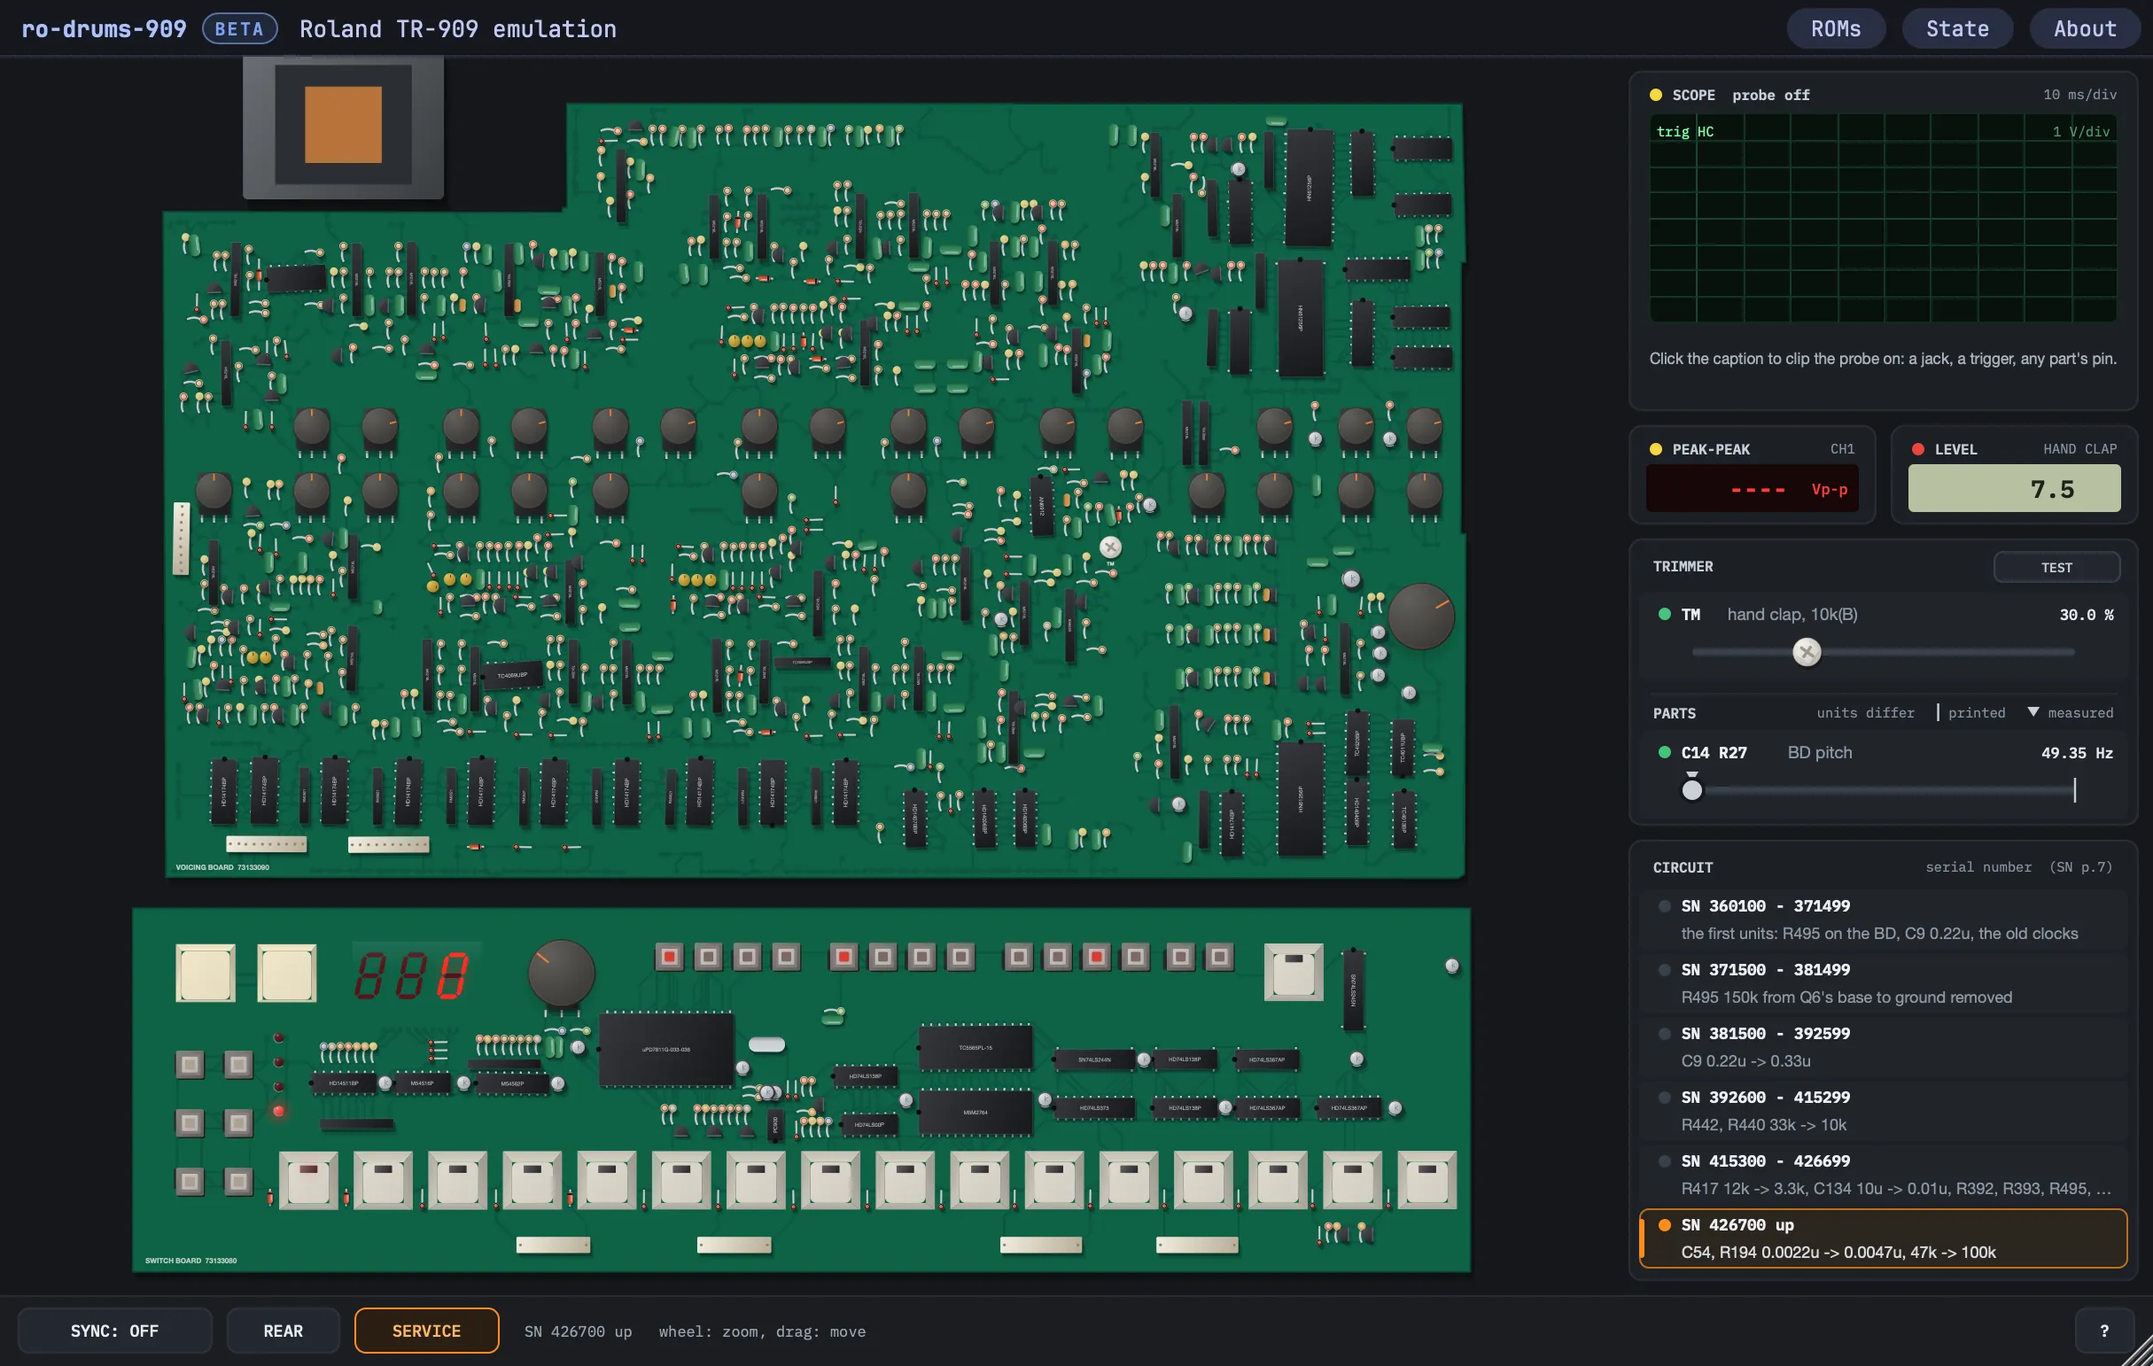
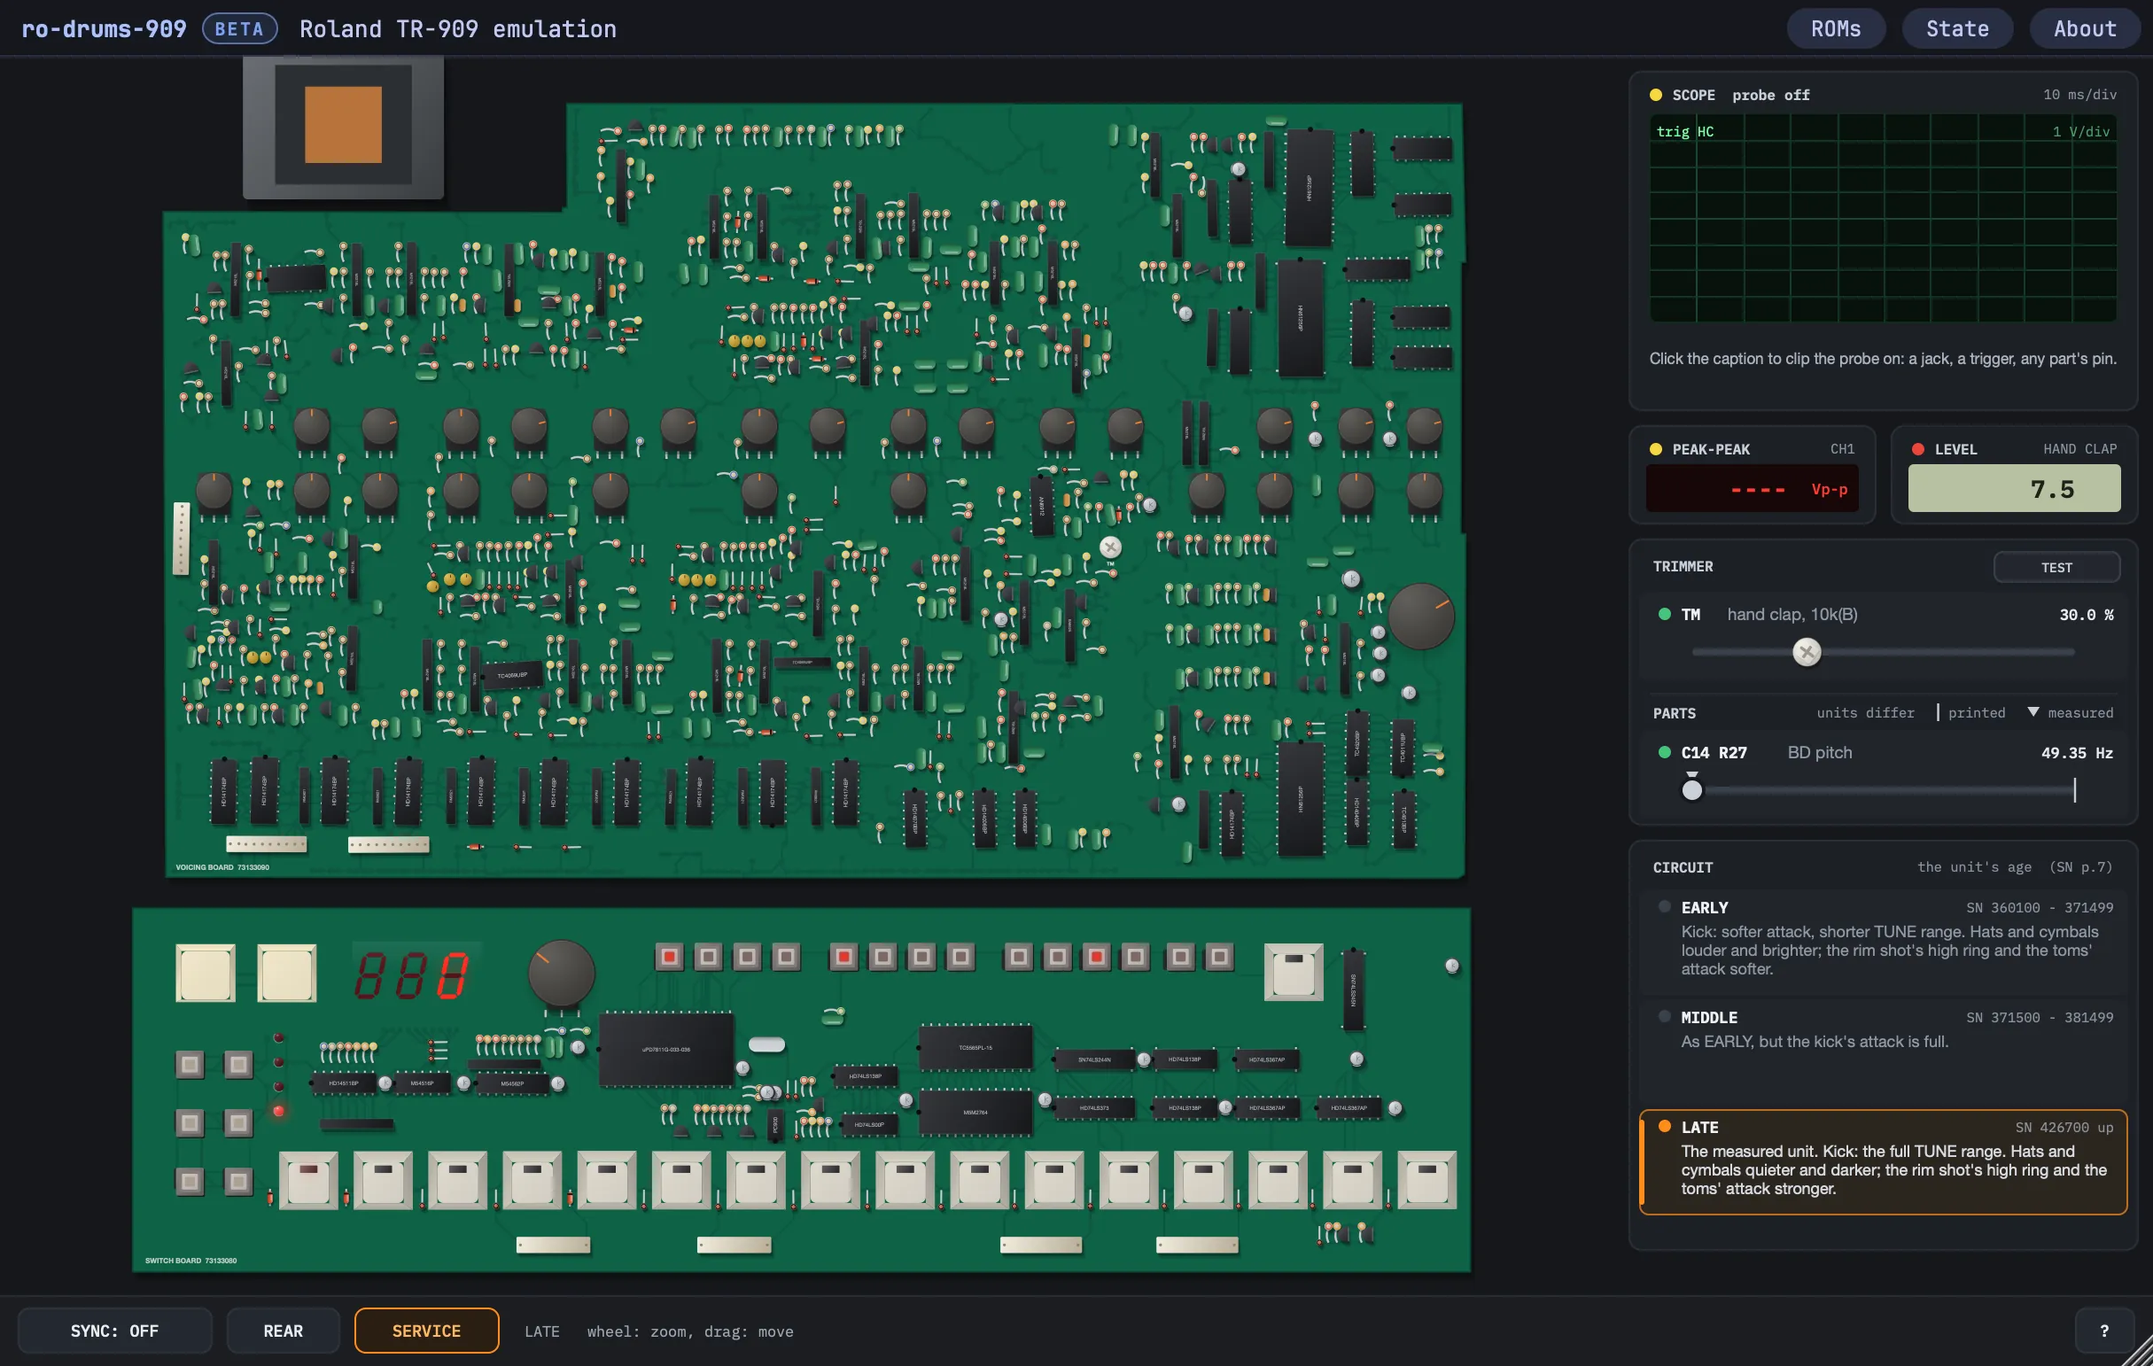
ro-drums-909 0.2.9: SERVICE's CIRCUIT is EARLY, MIDDLE or LATE

Changed region(s): [[0.7407, 0.6537, 0.9877, 0.9339], [0.3086, 0.965, 0.3704, 0.9961], [0.2469, 0.965, 0.2778, 0.9961]]

diff --git a/website/src/data/machines.ts b/website/src/data/machines.ts
@@ -139,6 +139,13 @@ export const machines: Machine[] = [
     release: { version: '0.2.8', tag: 'ro-drums-909-v0.2.8', stage: 'beta', mac: 'ro-drums-909-0.2.8-mac.pkg', windows: 'ro-drums-909-0.2.8-windows.zip' },
     changes: [
       {
+        version: '0.2.9',
+        notes: [
+          "SERVICE's CIRCUIT is now three ages, each with every part as it then was. EARLY (SN 360100-371499): the kick's softer attack and shorter TUNE range, louder and brighter hats and cymbals, a softer rim shot ring and tom attack. MIDDLE (371500-381499): as EARLY with the kick's full attack. LATE (426700 up): the measured unit, the default.",
+          'A session saved with a serial between the ages plays on as it was until an age is picked.',
+        ],
+      },
+      {
         version: '0.2.8',
         notes: ["SERVICE's PARTS row marks both values: a tick at the printed part, a caret at the measured unit's."],
       },

diff --git a/machines/tr909/plugin/HardwareService.cpp b/machines/tr909/plugin/HardwareService.cpp
@@ -81,8 +81,8 @@ constexpr float kIx = kCanvasW + 8, kIw = kDrawerW - 16;
 const juce::Rectangle<float> kScopeCase(kIx, 8, kIw, 192), kScopeScreen(kIx + 12, 32, kIw - 24, 118);
 const juce::Rectangle<float> kVppCase(kIx, 208, 140, 56), kLevelCase(kIx + kIw - 140, 208, 140, 56);
 const juce::Rectangle<float> kTrimCase(kIx, 272, kIw, 162); // TM, then PARTS
-const juce::Rectangle<float> kRevCase(kIx, 442, kIw, 249);
-constexpr float kRevRowH = 36;
+const juce::Rectangle<float> kRevCase(kIx, 442, kIw, 232); // EARLY, MIDDLE, LATE
+constexpr float kRevRowH = 62;
 juce::Rectangle<float> trimRow() { return {kTrimCase.getX() + 6, kTrimCase.getY() + 30, kTrimCase.getWidth() - 12, 50}; }
 juce::Rectangle<float> trimTrack() { return {trimRow().getX() + 30, trimRow().getY() + 32, trimRow().getWidth() - 60, 4}; }
 juce::Rectangle<float> partRow() { return {kTrimCase.getX() + 6, kTrimCase.getY() + 108, kTrimCase.getWidth() - 12, 50}; }
@@ -883,17 +883,6 @@ juce::String probeText(const juce::String &where)
 	return where;
 }
 
-// What each serial range is: the change it starts with (SN p.7), plainly.
-juce::String revisionWords(int index, const std::vector<int> &serials)
-{
-	if (index == 0)
-		return "the first units: R495 on the BD, C9 0.22u, the old clocks";
-	juce::StringArray what;
-	for (const auto &c : changes())
-		if (c.serial == serials[size_t(index)] && !c.before.empty())
-			what.add(juce::String(c.parts).upToFirstOccurrenceOf(" (", false, false) + " " + juce::String(c.change).upToFirstOccurrenceOf(";", false, false));
-	return what.joinIntoString(", ");
-}
 } // namespace
 
 // ====================================================================== geometry
@@ -1125,6 +1114,11 @@ void HardwareView::drawPartCallout(juce::Graphics &g)
 	g.drawText(name, tag, juce::Justification::centred);
 }
 
+juce::Rectangle<float> HardwareView::serviceAgeRow(int i)
+{
+	return revRow(i);
+}
+
 float HardwareView::partTrackWidth() const
 {
 	return partTrack().getWidth();
@@ -1328,20 +1322,25 @@ void HardwareView::drawDrawer(juce::Graphics &g)
 		g.drawEllipse(juce::Rectangle<float>(13, 13).withCentre(knob), 2);
 	}
 
-	// the circuit: which unit this is, by its serial number (SN p.7)
+	// the circuit: the unit's age, each with every part as it then was (SN p.7)
 	card(kRevCase);
 	g.setFont(fonts::mono(10.5f, fonts::Weight::SemiBold));
 	g.setColour(juce::Colour(0xffc9cfd8));
 	g.drawText("CIRCUIT", juce::Rectangle<float>(kRevCase.getX() + 14, kRevCase.getY() + 6, 120, 18), juce::Justification::centredLeft);
 	g.setFont(fonts::mono(10.0f));
 	g.setColour(juce::Colour(0xff8a929e));
-	g.drawText("serial number  (SN p.7)", juce::Rectangle<float>(kRevCase.getX() + 14, kRevCase.getY() + 6, kRevCase.getWidth() - 28, 18),
+	g.drawText("the unit's age  (SN p.7)", juce::Rectangle<float>(kRevCase.getX() + 14, kRevCase.getY() + 6, kRevCase.getWidth() - 28, 18),
 	           juce::Justification::centredRight);
-	const auto serials = boardSerials();
-	for (int i = 0; i < int(serials.size()); ++i) {
+	static const char *const kAgeName[3] = {"EARLY", "MIDDLE", "LATE"};
+	static const char *const kAgeWords[3] = {
+		"Kick: softer attack, shorter TUNE range. Hats and cymbals louder and brighter; the rim shot's high ring and the toms' attack softer.",
+		"As EARLY, but the kick's attack is full.",
+		"The measured unit. Kick: the full TUNE range. Hats and cymbals quieter and darker; the rim shot's high ring and the toms' attack stronger."};
+	const int age = ageOf(m_proc.serial());
+	for (int i = 0; i < 3; ++i) {
 		const auto row = revRow(i);
-		const int from = serials[size_t(i)], to = i + 1 < int(serials.size()) ? serials[size_t(i + 1)] - 1 : 0;
-		const bool on = m_proc.serial() >= from && (to == 0 || m_proc.serial() <= to);
+		const int from = kAgeSerial[i], to = kAgeEnd[i];
+		const bool on = age == i;
 		const bool hov = m_hover.kind == HitKind::Serial && m_hover.index == i;
 		g.setColour(on ? juce::Colour(0xff2b2620) : hov ? juce::Colour(0xff262a31) : juce::Colour(0xff21252b));
 		g.fillRoundedRectangle(row, 5);
@@ -1355,12 +1354,22 @@ void HardwareView::drawDrawer(juce::Graphics &g)
 		g.fillEllipse(row.getX() + 11, row.getY() + 6, 7, 7);
 		g.setFont(fonts::mono(11.5f, fonts::Weight::SemiBold));
 		g.setColour(juce::Colour(0xffeef1f5));
+		g.drawText(kAgeName[i], juce::Rectangle<float>(row.getX() + 24, row.getY() + 2, 70, 16), juce::Justification::centredLeft);
+		g.setFont(fonts::mono(10.0f));
+		g.setColour(juce::Colour(0xff8a929e));
 		g.drawText(to == 0 ? "SN " + juce::String(from) + " up" : "SN " + juce::String(from) + " - " + juce::String(to),
-		           juce::Rectangle<float>(row.getX() + 24, row.getY() + 1, row.getWidth() - 30, 16), juce::Justification::centredLeft);
+		           juce::Rectangle<float>(row.getX() + 24, row.getY() + 2, row.getWidth() - 32, 16), juce::Justification::centredRight);
 		g.setFont(sans(10.5f));
 		g.setColour(on ? juce::Colour(0xffd6dbe2) : juce::Colour(0xff8f98a5));
-		g.drawText(revisionWords(i, serials), juce::Rectangle<float>(row.getX() + 24, row.getY() + 17, row.getWidth() - 30, 15),
-		           juce::Justification::centredLeft, true);
+		g.drawFittedText(kAgeWords[i], juce::Rectangle<float>(row.getX() + 24, row.getY() + 18, row.getWidth() - 30, kRevRowH - 22).toNearestInt(),
+		                 juce::Justification::topLeft, 3, 1.0f);
+	}
+	if (age < 0) { // a session saved before 0.2.9 with a unit between the ages: it plays on as it was until one is picked
+		g.setFont(sans(10.0f));
+		g.setColour(juce::Colour(0xffffb866));
+		g.drawFittedText("this session: SN " + juce::String(m_proc.serial()) + " (an earlier choice)",
+		                 juce::Rectangle<float>(kRevCase.getX() + 14, revRow(2).getBottom() + 4, kRevCase.getWidth() - 28, 14).toNearestInt(),
+		                 juce::Justification::centredLeft, 1, 0.85f);
 	}
 }
 
@@ -1553,8 +1562,7 @@ HardwareView::Hit HardwareView::hitService(juce::Point<float> px) const
 			return {HitKind::Trim, 0};
 		if (partRow().contains(px))
 			return {HitKind::Part, 0};
-		const int ranges = int(boardSerials().size());
-		for (int i = 0; i < ranges; ++i)
+		for (int i = 0; i < 3; ++i)
 			if (revRow(i).contains(px))
 				return {HitKind::Serial, i};
 		return {HitKind::Drawer, -1};
@@ -1584,10 +1592,14 @@ juce::String HardwareView::serviceStatus() const
 	if (partHot())
 		return "C14 R27, BD pitch: drag across (shift: finer), double-click: back to the measured unit's";
 	if (m_hover.kind == HitKind::Serial)
-		return "the circuit as Roland built it from that serial number on (SN p.7)";
+		return m_hover.index == 0 ? "EARLY, as first built: BD R495 and C9 0.22u, HH C134 10u, RS R417 12k, cymbals R442/R440 33k, tom noise C54 0.0022u, no jack caps"
+		       : m_hover.index == 1 ? "MIDDLE: from SN 371500, the BD's R495 gone; every other part as EARLY"
+		                            : "LATE: every change of SN p.7 (BD C9 0.33u, HH C134 0.01u, RS R417 3.3k, jack caps C500-C512, tom noise C54 0.0047u): the measured unit";
 	if (m_hover.kind == HitKind::Knob || m_hover.kind == HitKind::Key)
 		return "the panel's controls, on the boards: they work as on the panel";
-	return "SN " + juce::String(m_proc.serial()) + (m_proc.serial() >= kLateSerial ? " up" : "") + "   wheel: zoom, drag: move";
+	static const char *const kAge[3] = {"EARLY", "MIDDLE", "LATE"};
+	const int age = ageOf(m_proc.serial());
+	return (age >= 0 ? juce::String(kAge[age]) : "SN " + juce::String(m_proc.serial())) + "   wheel: zoom, drag: move";
 }
 
 } // namespace tr909

diff --git a/machines/tr909/tools/plugintest/main.cpp b/machines/tr909/tools/plugintest/main.cpp
@@ -846,6 +846,23 @@ void service(const Roms &r, double rate)
 	b.setStateInformation(s.getData(), int(s.getSize()));
 	check(b.serial() == 392600 && std::abs(b.params().getRawParameterValue("tm")->load() - 0.4f) < 1e-6,
 	      "service: the serial number and TM round-trip with the session");
+	{ // CIRCUIT by the mouse: EARLY, MIDDLE, LATE; b's unit (392600, between the ages) kept until one is picked
+		tr909::HardwareView view(b);
+		view.setBounds(0, 0, tr909::HardwareView::kWidth, tr909::HardwareView::kHeight);
+		view.showService(true);
+		const bool kept = b.serial() == 392600 && tr909::ageOf(b.serial()) < 0;
+		int got[3] = {};
+		for (int i : {0, 1, 2}) {
+			const auto c = tr909::HardwareView::serviceAgeRow(i).getCentre();
+			const auto now = juce::Time::getCurrentTime();
+			const juce::MouseEvent e(juce::Desktop::getInstance().getMainMouseSource(), c, {}, 1.0f, 0.0f, 0.0f, 0.0f, 0.0f, &view, &view, now, c, now, 1, false);
+			view.mouseDown(e);
+			view.mouseUp(e);
+			got[i] = b.serial();
+		}
+		check(kept && got[0] == tr909::kFirstSerial && got[1] == 371500 && got[2] == tr909::kLateSerial,
+		      "service: CIRCUIT's EARLY, MIDDLE and LATE by the mouse; a session's unit between them (SN 392600) loads as it was");
+	}
 }
 
 // BD pitch (SERVICE's PARTS, C14 R27): the kick settles where the slider says, from the measured unit's 49.35 Hz
@@ -1180,6 +1197,24 @@ int render(const char *list, const char *path)
 int main(int argc, char **argv)
 {
 	juce::ScopedJuceInitialiser_GUI gui;
+	if (argc > 3 && juce::String(argv[1]) == "--state") { // --state OUT SERIAL: ro-drums-909's state for that unit (for A/B scenes)
+		Roms r;
+		TR909Processor p(&r.fw, &r.hh, &r.cr, &r.rd);
+		p.prepareToPlay(48000, 512);
+		p.setSerial(std::atoi(argv[3]));
+		juce::MemoryBlock machineState, state;
+		p.getStateInformation(machineState);
+		// as the plugin saves it: the host's LEMUS tree (host/LemusProcessor.cpp) around the 909's own
+		juce::ValueTree lemus("LEMUS");
+		lemus.setProperty("version", 1, nullptr);
+		lemus.setProperty("machine", "tr909", nullptr);
+		lemus.setProperty("state", machineState, nullptr);
+		{
+			juce::MemoryOutputStream out(state, false);
+			lemus.writeToStream(out);
+		}
+		return juce::File::getCurrentWorkingDirectory().getChildFile(argv[2]).replaceWithData(state.getData(), state.getSize()) ? 0 : 1;
+	}
 	if (argc > 1 && juce::String(argv[1]) == "--panel") {
 		const char *artwork = nullptr;
 		bool running = false, rear = false, off = false, service = false, tm = false, part = false;

diff --git a/machines/tr909/core/revisions.h b/machines/tr909/core/revisions.h
@@ -50,6 +50,18 @@ inline const std::vector<Change> &changes()
 
 constexpr int kFirstSerial = 360100; // the earliest units (ROM group A, SN p.7)
 constexpr int kLateSerial = 426700;  // the late board: every change, the netlists' defaults
+// SERVICE's CIRCUIT offers three ages, each unit with every part as it then was: EARLY (the first
+// units, R495 on the BD and C9 0.22u), MIDDLE (R495 gone, C9 still 0.22u) and LATE (the measured
+// unit). Listening, the BD tells all three apart; the serials between stay in the model.
+constexpr int kAgeSerial[3] = {kFirstSerial, 371500, kLateSerial};
+constexpr int kAgeEnd[3] = {371499, 381499, 0}; // the age's last serial; 0: on up
+inline int ageOf(int serial)
+{
+	for (int i = 0; i < 3; ++i)
+		if (serial >= kAgeSerial[i] && (kAgeEnd[i] == 0 || serial <= kAgeEnd[i]))
+			return i;
+	return -1;
+}
 
 // The serials where the board changes, the first unit included: the ranges a unit can be in.
 inline std::vector<int> boardSerials()

diff --git a/machines/tr909/plugin/HardwareView.cpp b/machines/tr909/plugin/HardwareView.cpp
@@ -1391,12 +1391,10 @@ void HardwareView::mouseDown(const juce::MouseEvent &e)
 			m_dragPan = m_pan;
 		}
 		break;
-	case HitKind::Serial: {
-		const auto serials = boardSerials();
-		if (m_drag.index >= 0 && m_drag.index < int(serials.size()))
-			m_proc.setSerial(serials[size_t(m_drag.index)]);
+	case HitKind::Serial: // CIRCUIT: EARLY, MIDDLE or LATE, each with every part as it then was
+		if (m_drag.index >= 0 && m_drag.index < 3 && ageOf(m_proc.serial()) != m_drag.index)
+			m_proc.setSerial(kAgeSerial[m_drag.index]);
 		break;
-	}
 	case HitKind::Trim:
 	case HitKind::Part: {
 		const char *id = m_drag.kind == HitKind::Trim ? "tm" : "bdpitch";

diff --git a/machines/tr909/plugin/HardwareView.h b/machines/tr909/plugin/HardwareView.h
@@ -69,6 +69,7 @@ public:
 	void serviceSetUpTm() { setUpTm(); }  // tools: the TM procedure's scope set-up (play the clap yourself)
 	void serviceSweep() { updateScope(); } // tools: the scope takes its latest sweep now
 	void servicePart() { m_hover = {HitKind::Part, 0}; repaint(); } // tools: the PARTS row as under the mouse
+	static juce::Rectangle<float> serviceAgeRow(int i); // tools: CIRCUIT's EARLY (0), MIDDLE (1) or LATE (2)
 
 private:
 	enum class HitKind { None, Knob, Key, BarSync, BarHelp, BarRear, Jack, Power, BarService,

diff --git a/machines/tr909/README.md b/machines/tr909/README.md
@@ -186,10 +186,13 @@ SCALE, LAST STEP, TRACK WRITE, BANK, COPY/INS/DEL. The memory is saved with the 
     mouse, C14 and R27 are ringed on the board and the scope's caption says what they do. Saved
     with the session, not automatable: it is a part of the unit, as TM is. A dot on SERVICE shows a
     unit off its own: TM or a part moved.
-  - **Circuit**: which unit this is, by serial number, from the first (360100) to the late board
-    (426700 up, the default): the production changes of SN p.7's change table (`core/revisions.h`:
-    the BD's C9 and R495, the cymbals' clocks, the rim shot, the hi-hat's C134, the jacks'
-    capacitors, the tom noise), saved with the session.
+  - **Circuit**: the unit's age, each with every part as it then was (SN p.7's change table,
+    `core/revisions.h`): **EARLY**, the first units (SN 360100-371499: R495 on the BD, C9 0.22u,
+    the cymbal clocks' R442/R440 33k, the rim shot's R417 12k, the hi-hat's C134 10u, no 0.01u at
+    the jacks, the early tom noise); **MIDDLE** (SN 371500-381499: R495 gone, the rest still
+    early); **LATE** (SN 426700 up, the default: the measured unit). Listening side by side, the BD
+    tells all three apart. The serials between stay in the model: a session saved with one before
+    0.2.9 plays on as it was until an age is picked. Saved with the session.
 - **LEVEL knobs** start at 3/4, the others at 12 o'clock, TEMPO at 120.6 BPM (121 on the display).
 - Computer keyboard: 1-8 and Q-I are the step keys 1-16; A S D F TRACK PLAY 1-4, G H J PATTERN
   PLAY 1-3, K EXT INST; Z X C V TEMPO (STEP), BACK (TAP), FWD (BANK I), AVAILABLE MEAS (BANK II);

diff --git a/machines/tr909/docs/improvements.md b/machines/tr909/docs/improvements.md
@@ -209,6 +209,14 @@ The calibration (`docs/model.md`, "Calibration") fitted the AudioRealism unit; w
 
 ## Done
 
+- 2026-11-24, UX: CIRCUIT is three ages, EARLY (SN 360100-371499), MIDDLE (371500-381499) and LATE
+  (426700 up, the measured unit), each with every part as it then was, after an A/B of the serial
+  ranges (private/tr909/reference/scenes/circuits; Chris heard the BD tell all three apart). The six
+  serial rows go; the serials between stay in the model and a session saved with one plays on as
+  it was until an age is picked. plugintest --state writes a unit's state for A/B scenes; a check
+  clicks the rows. Each row says what you hear against the others, voice by voice (the kick's
+  attack and TUNE range, hats and cymbals, the rim shot's high ring, the toms' attack, measured
+  on the A/B set: private/tr909/reference/scenes/ages); the parts are in the hover text.
 - 2026-11-24, UX: the PARTS row marks both values: a tick at the printed part, a caret at the measured
   unit's; the card's caption is their legend. The same on the 808 and the 303.
 - 2026-11-24, UX: BD PITCH leaves the bar for SERVICE, as PARTS under TM: the row "C14 R27  BD pitch"
